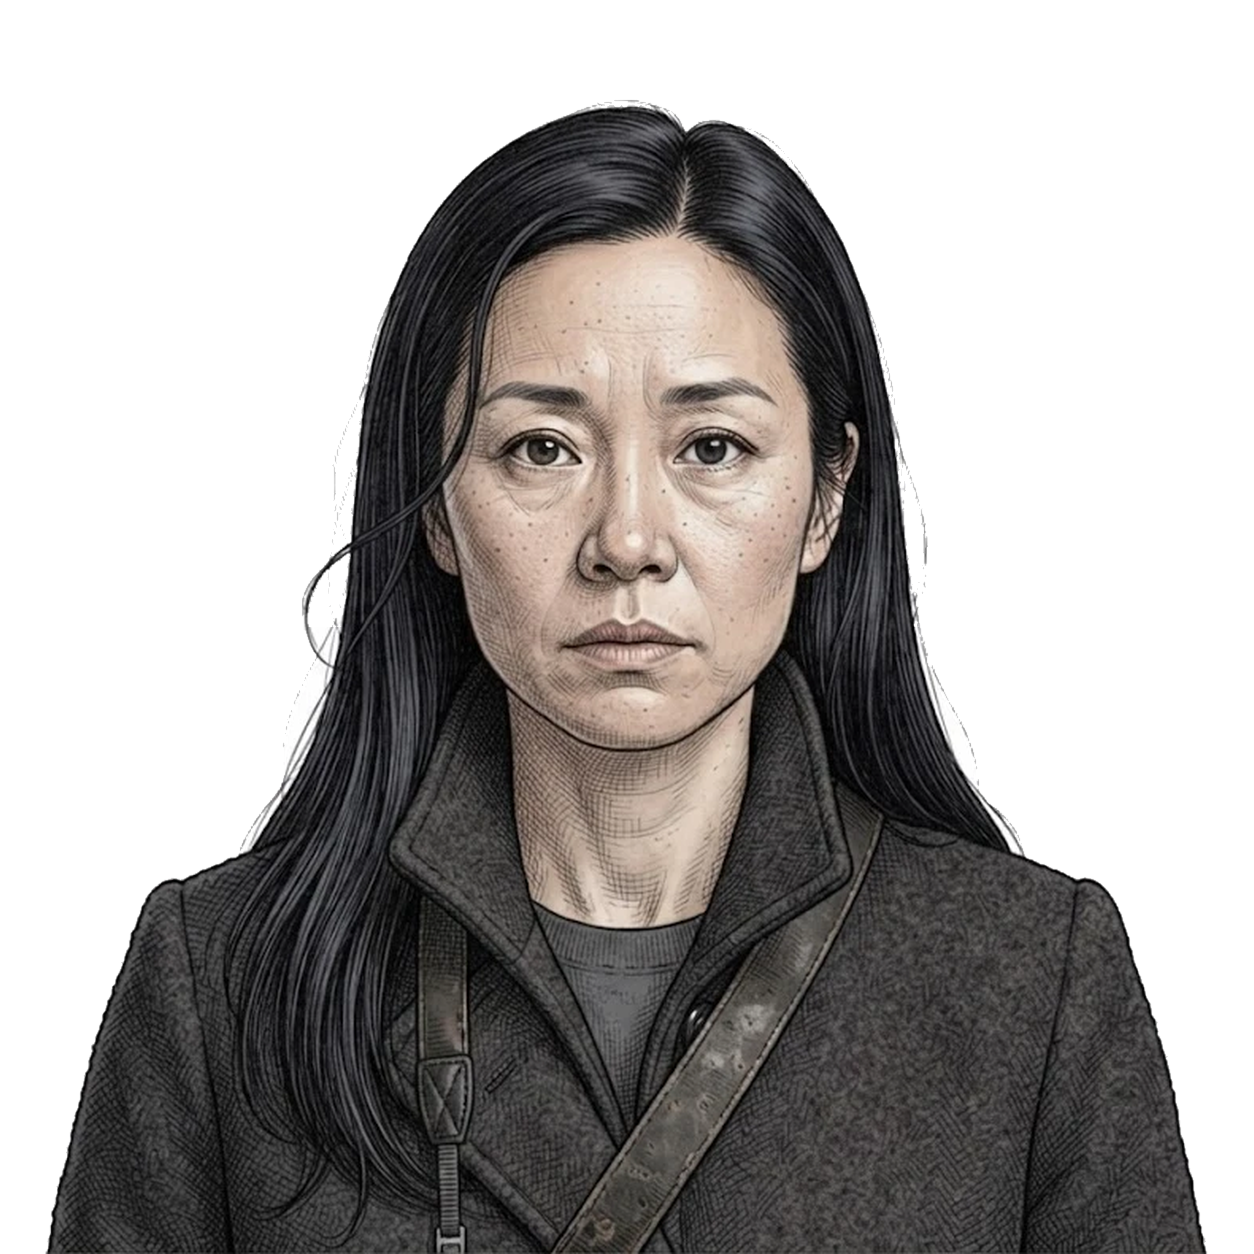
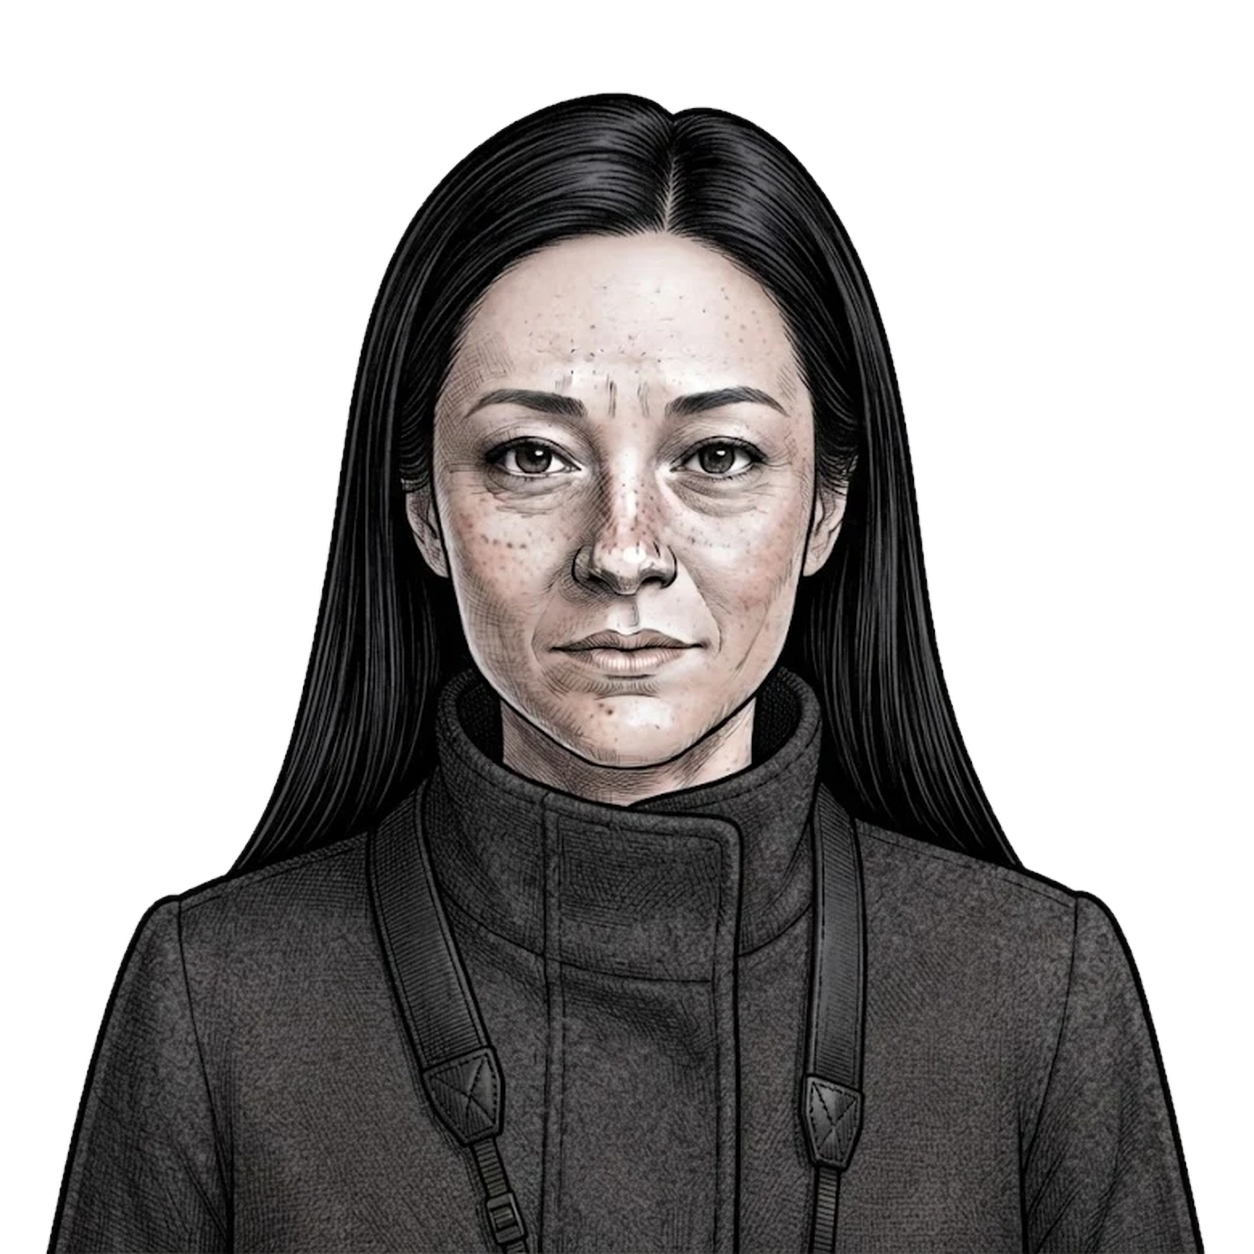
Portreler: gagnon, kwan (halesiz); Farah için farklı yüz prompt'u

Changed region(s): [[0.0311, 0.0622, 0.9641, 1.0]]

diff --git a/Docs/IMAGE_REDO_PROMPTS.md b/Docs/IMAGE_REDO_PROMPTS.md
@@ -306,13 +306,13 @@ A 36-year-old Korean-American woman, long straight black hair, round glasses, sh
 A 40-year-old Jewish-Canadian woman, dark shoulder-length hair in tight defined curls with solid dark shading, an intelligent tired face, grieving brown eyes. A navy wool coat. Head-and-shoulders portrait only, arms and hands not visible, no table, facing the camera directly, eyes looking at the viewer, neutral seated posture as if across an interrogation table. Detailed ink-line graphic-novel illustration with soft painted shading, muted realistic colours, same style as a gritty detective game character sheet. Plain solid pure white background, no shadow on the background, no text, no border, no badges or insignia. CUTOUT RULES: the whole figure is surrounded by one bold, continuous, dark black ink outline with no gaps; hair is drawn as solid, dark-shaded masses with crisp outlined edges, no loose flyaway strands, no wispy or translucent hair, no light-coloured highlights on the outer edge of the hair; clothing is mid-to-dark in tone, nothing white, cream or pale grey anywhere on the outer silhouette; no rim light, no glow, no soft fade, no white outline, no halo around the figure; the background is flat pure white #FFFFFF and touches the dark outline directly.
 ```
 
-## Sophie Gagnon → `Characters/gagnon.png`
+## ✅ Sophie Gagnon → `Characters/gagnon.png`
 
 ```
 A 24-year-old French-Canadian woman, copper hair in a neat tight bun, freckles, nervous honest face. A dark red hoodie. Head-and-shoulders portrait only, arms and hands not visible, no table, facing the camera directly, eyes looking at the viewer, neutral seated posture as if across an interrogation table. Detailed ink-line graphic-novel illustration with soft painted shading, muted realistic colours, same style as a gritty detective game character sheet. Plain solid pure white background, no shadow on the background, no text, no border, no badges or insignia. CUTOUT RULES: the whole figure is surrounded by one bold, continuous, dark black ink outline with no gaps; hair is drawn as solid, dark-shaded masses with crisp outlined edges, no loose flyaway strands, no wispy or translucent hair, no light-coloured highlights on the outer edge of the hair; clothing is mid-to-dark in tone, nothing white, cream or pale grey anywhere on the outer silhouette; no rim light, no glow, no soft fade, no white outline, no halo around the figure; the background is flat pure white #FFFFFF and touches the dark outline directly.
 ```
 
-## Grace Kwan → `Characters/kwan.png`
+## ✅ Grace Kwan → `Characters/kwan.png`
 
 ```
 A 38-year-old Chinese-Canadian woman, long straight black hair, a camera strap across her chest, a composed grieving face. A charcoal wool coat. Head-and-shoulders portrait only, arms and hands not visible, no table, facing the camera directly, eyes looking at the viewer, neutral seated posture as if across an interrogation table. Detailed ink-line graphic-novel illustration with soft painted shading, muted realistic colours, same style as a gritty detective game character sheet. Plain solid pure white background, no shadow on the background, no text, no border, no badges or insignia. CUTOUT RULES: the whole figure is surrounded by one bold, continuous, dark black ink outline with no gaps; hair is drawn as solid, dark-shaded masses with crisp outlined edges, no loose flyaway strands, no wispy or translucent hair, no light-coloured highlights on the outer edge of the hair; clothing is mid-to-dark in tone, nothing white, cream or pale grey anywhere on the outer silhouette; no rim light, no glow, no soft fade, no white outline, no halo around the figure; the background is flat pure white #FFFFFF and touches the dark outline directly.
@@ -322,4 +322,12 @@ A 38-year-old Chinese-Canadian woman, long straight black hair, a camera strap a
 
 ```
 A 30-year-old Pakistani-Canadian woman, long dark hair, smooth, tucked behind the shoulders, a nose stud, a fierce passionate face. A green canvas utility jacket with patches that have no text. Head-and-shoulders portrait only, arms and hands not visible, no table, facing the camera directly, eyes looking at the viewer, neutral seated posture as if across an interrogation table. Detailed ink-line graphic-novel illustration with soft painted shading, muted realistic colours, same style as a gritty detective game character sheet. Plain solid pure white background, no shadow on the background, no text, no border, no badges or insignia. CUTOUT RULES: the whole figure is surrounded by one bold, continuous, dark black ink outline with no gaps; hair is drawn as solid, dark-shaded masses with crisp outlined edges, no loose flyaway strands, no wispy or translucent hair, no light-coloured highlights on the outer edge of the hair; clothing is mid-to-dark in tone, nothing white, cream or pale grey anywhere on the outer silhouette; no rim light, no glow, no soft fade, no white outline, no halo around the figure; the background is flat pure white #FFFFFF and touches the dark outline directly.
+```
+
+## Farah Siddiqui (v2 — farklı yüz) → `Characters/farah.png`
+
+Önceki deneme Grace Kwan ile aynı yüzü verdi. Yüz yapısı açıkça farklı tarif edildi.
+
+```
+A NEW, DISTINCT face, not resembling any previous portrait in this conversation. A 30-year-old Pakistani-Canadian woman with warm medium-brown South Asian skin, a long oval face with high cheekbones and a strong straight nose with a small gold nose stud on the left nostril, thick dark straight eyebrows, large almond-shaped dark brown eyes lined with kohl, full lips pressed together, chin slightly raised, a fierce, defiant, passionate expression. No freckles. Long thick dark-brown hair in a single heavy braid over her right shoulder, shaded darker at the edges. A dark green canvas utility jacket with plain patches that have no text, over a maroon top. Head-and-shoulders portrait only, arms and hands not visible, no table, facing the camera directly, eyes looking at the viewer. Detailed ink-line graphic-novel illustration with soft painted shading, muted realistic colours, same style as a gritty detective game character sheet. No text, no border, no badges or insignia. CUTOUT RULES: the whole figure is surrounded by one bold, continuous, dark black ink outline with no gaps; hair is drawn as solid, dark-shaded masses with crisp outlined edges, no loose flyaway strands; clothing is mid-to-dark in tone, nothing white or pale on the outer silhouette; no rim light, no glow, no halo; the background is flat pure white #FFFFFF and touches the dark outline directly.
 ```
